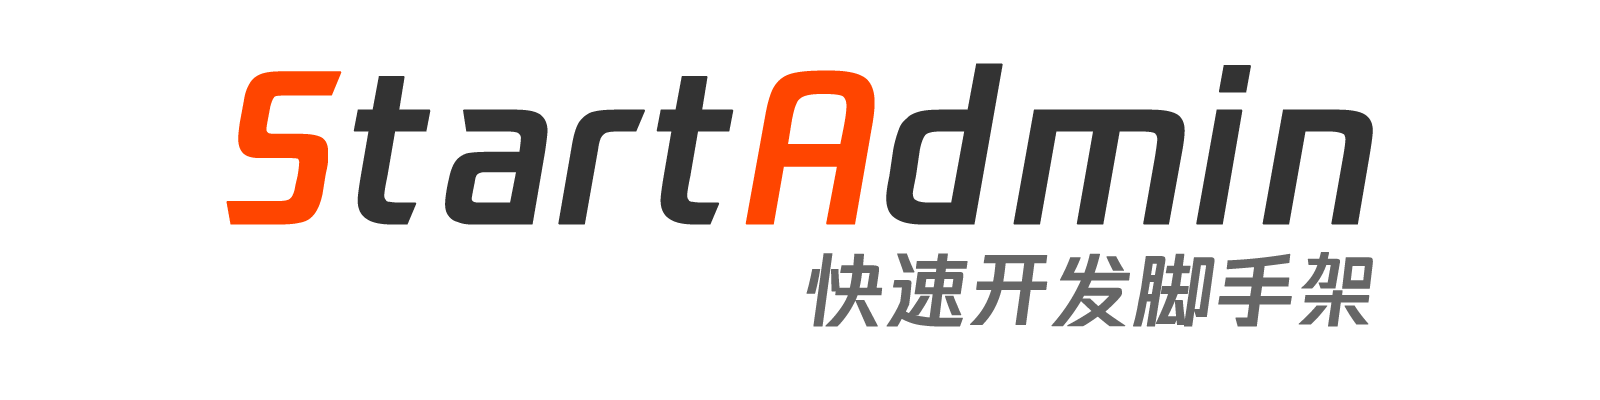
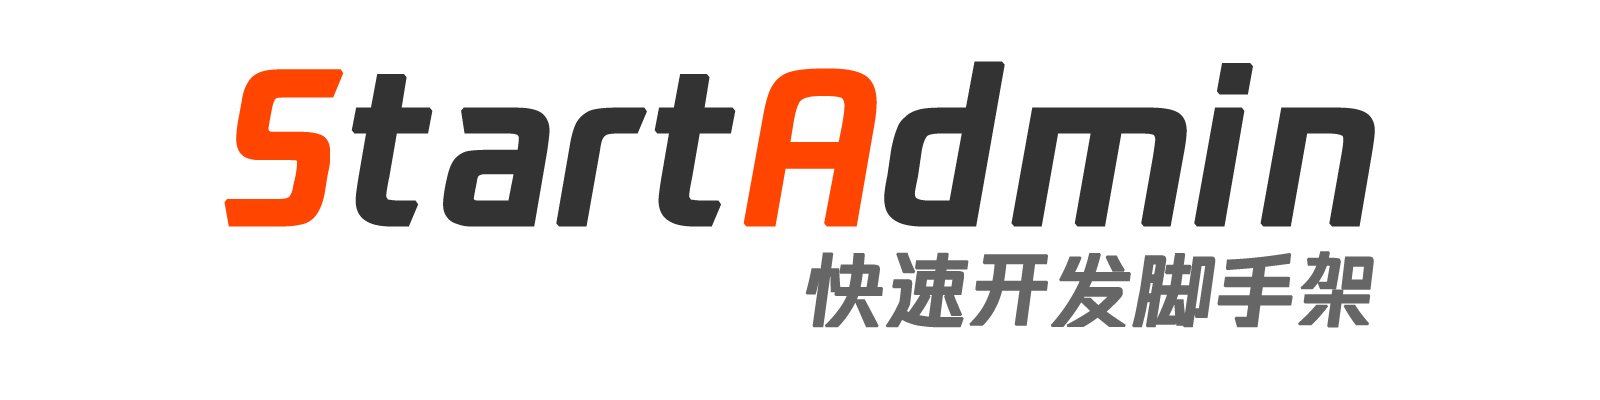
修改图片

diff --git a/README.md b/README.md
@@ -1,5 +1,5 @@
 <p align="center">
-<img width="400" src="https://images.gitee.com/uploads/images/2020/0408/001747_81696e19_145025.png"/>
+<img width="500" src="https://images.gitee.com/uploads/images/2020/0408/002846_2e9986dd_145025.png"/>
 </p>
 <p align="center">
 <img src="https://svg.hamm.cn?key=gitee&value=star&project=hamm/StartAdmin">
